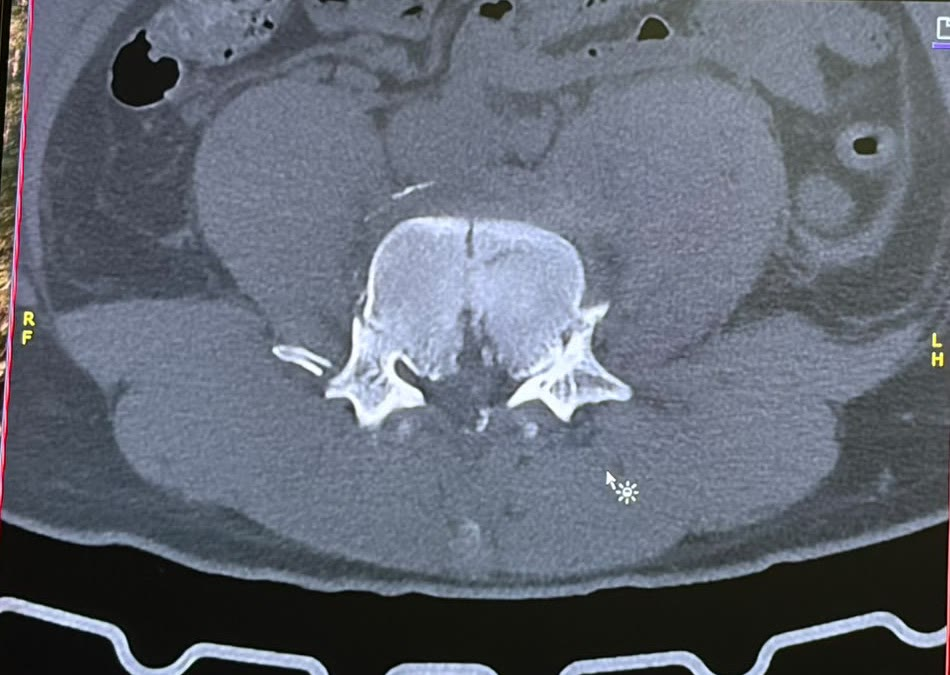
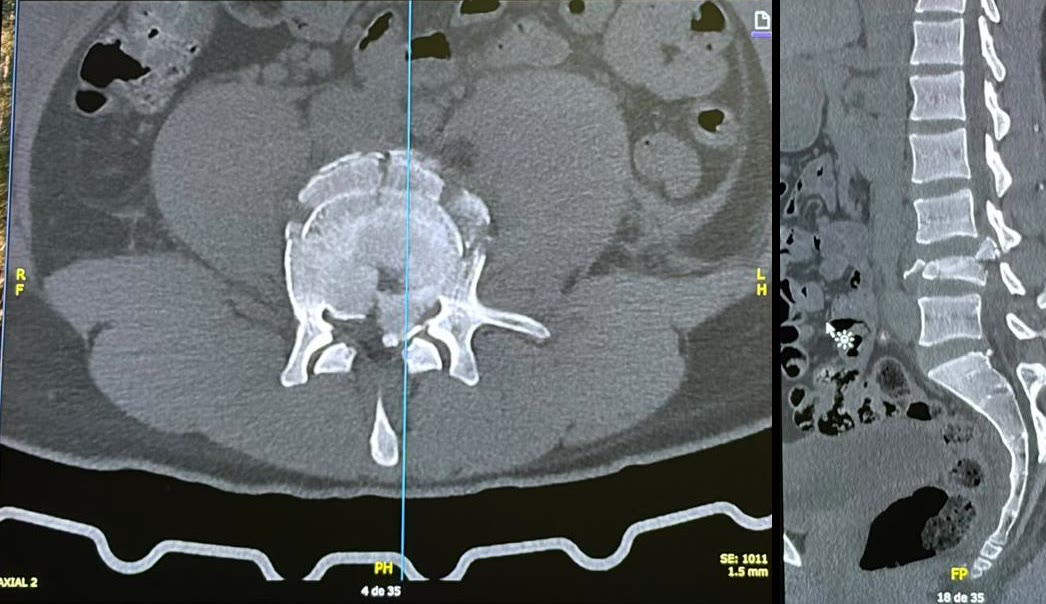
Ayuda page: replace CT image with clearer axial + sagittal view

diff --git a/public/ayuda/index.html b/public/ayuda/index.html
@@ -351,7 +351,7 @@
         <figcaption data-i18n="diagLeyenda1">En rojo, la vértebra fracturada.</figcaption>
       </figure>
       <figure>
-        <img src="fotos/diagnostico-2.jpg" alt="Tomografía de la vértebra fracturada" loading="lazy" width="950" height="675">
+        <img src="fotos/diagnostico-2.jpg" alt="Tomografía de la vértebra fracturada" loading="lazy" width="1046" height="604">
         <figcaption data-i18n="diagLeyenda2">Tomografía del 24 de octubre.</figcaption>
       </figure>
     </div>
